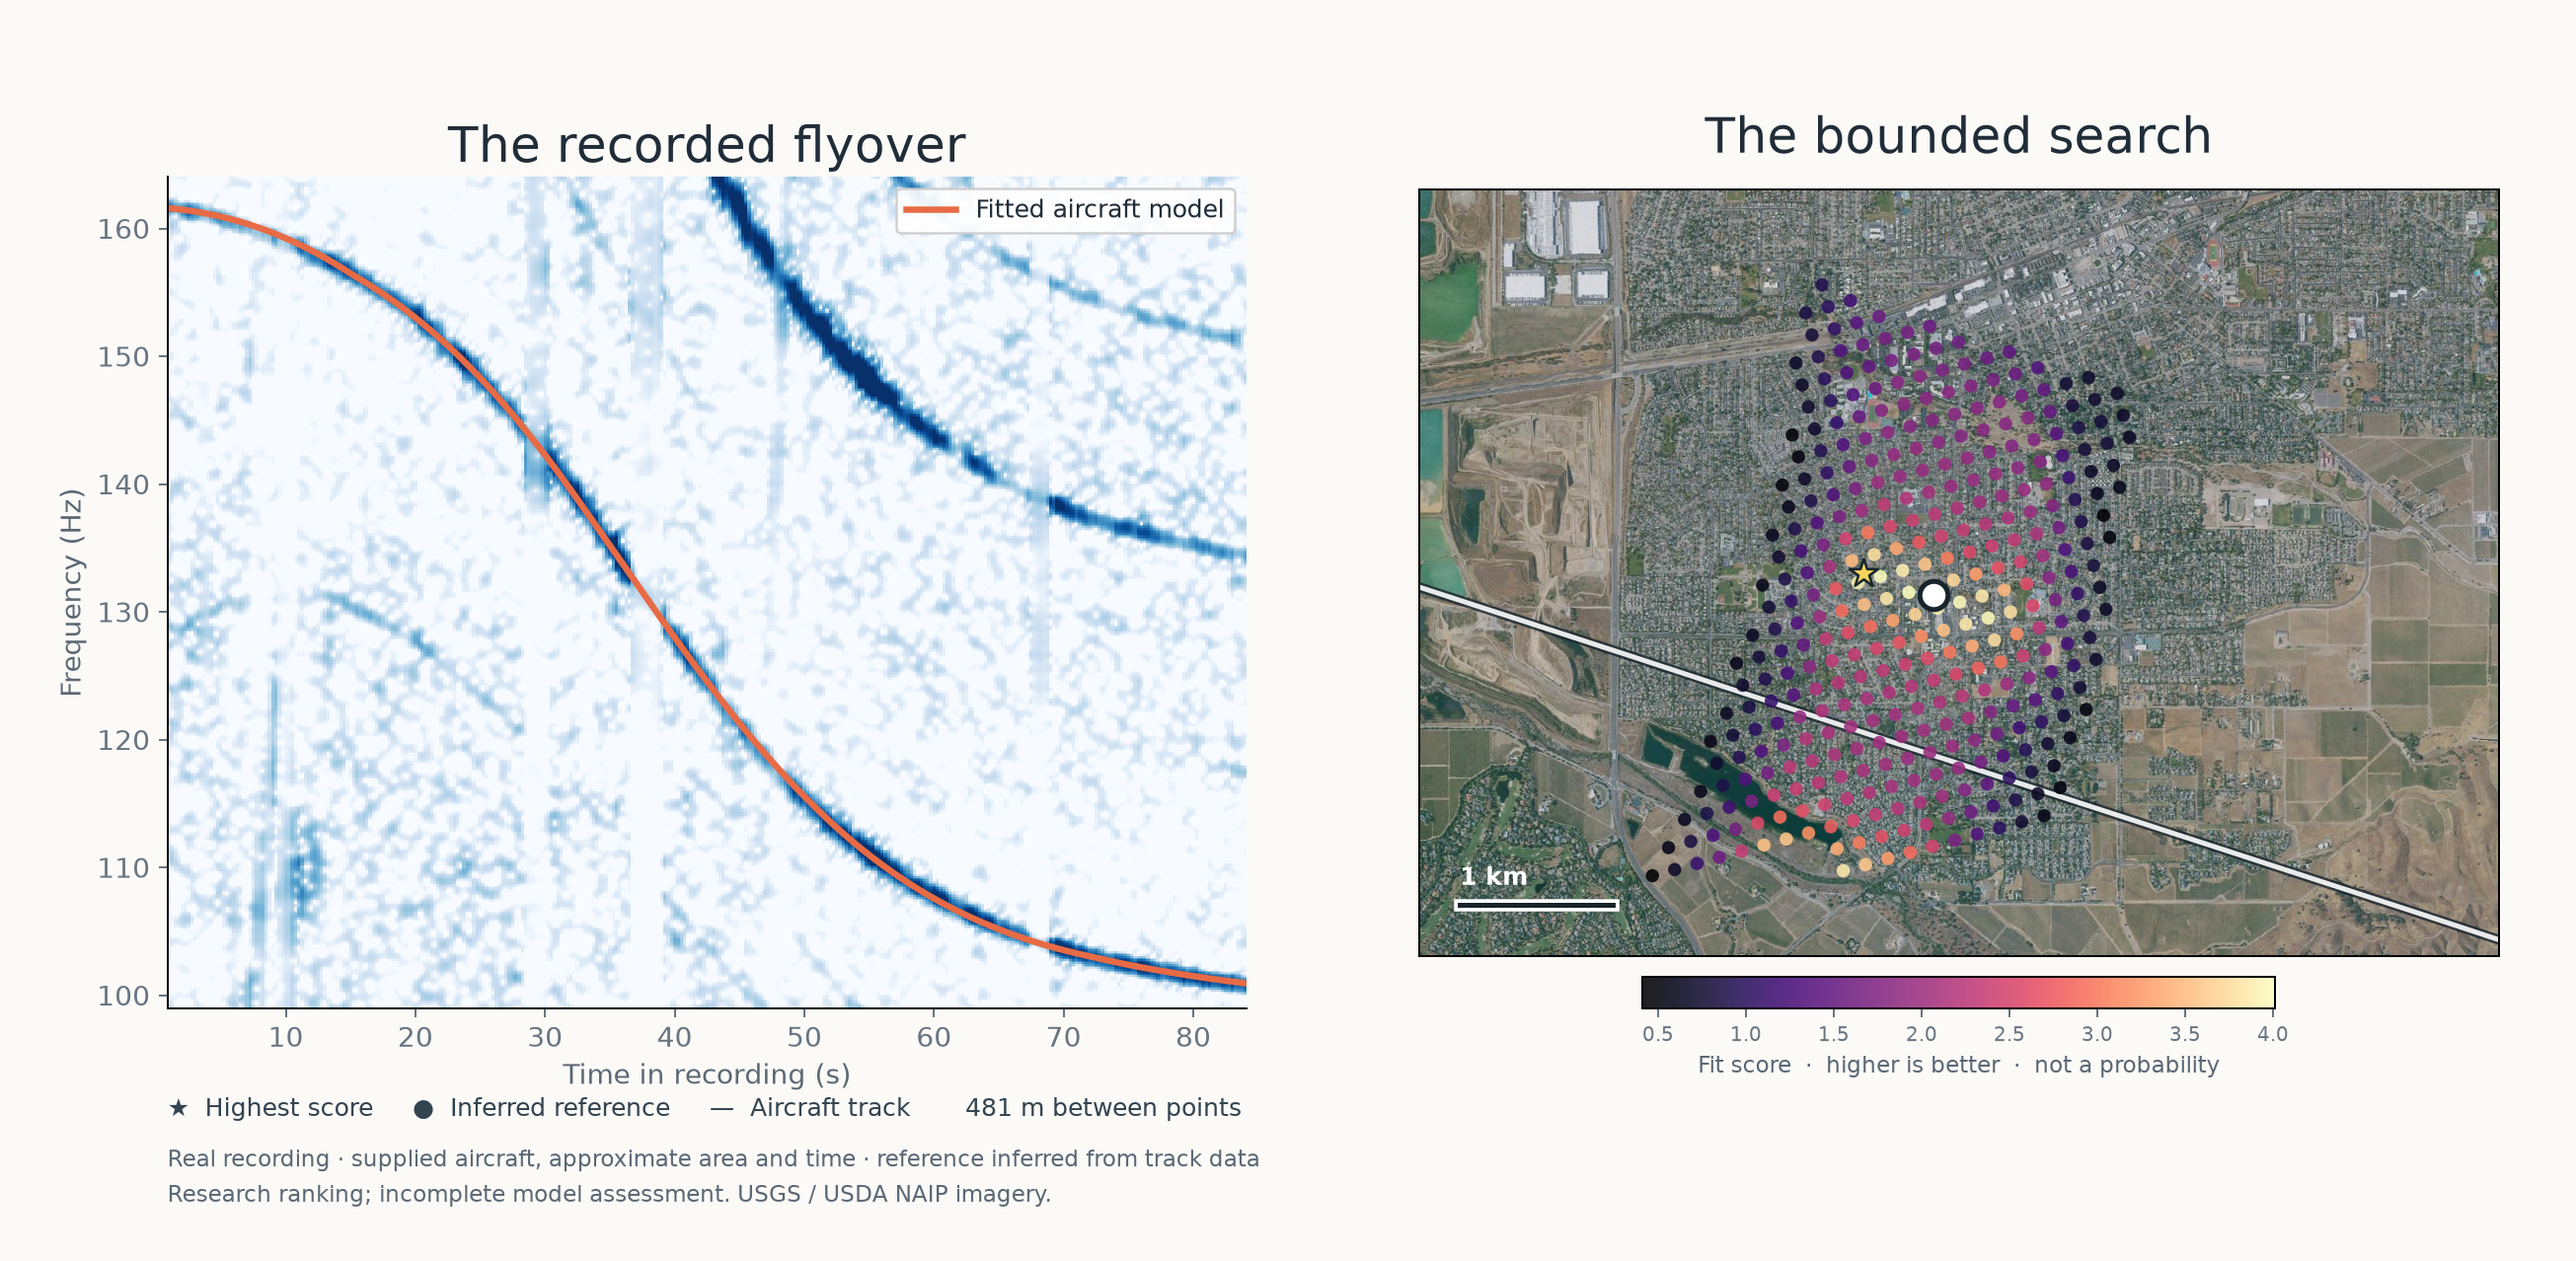
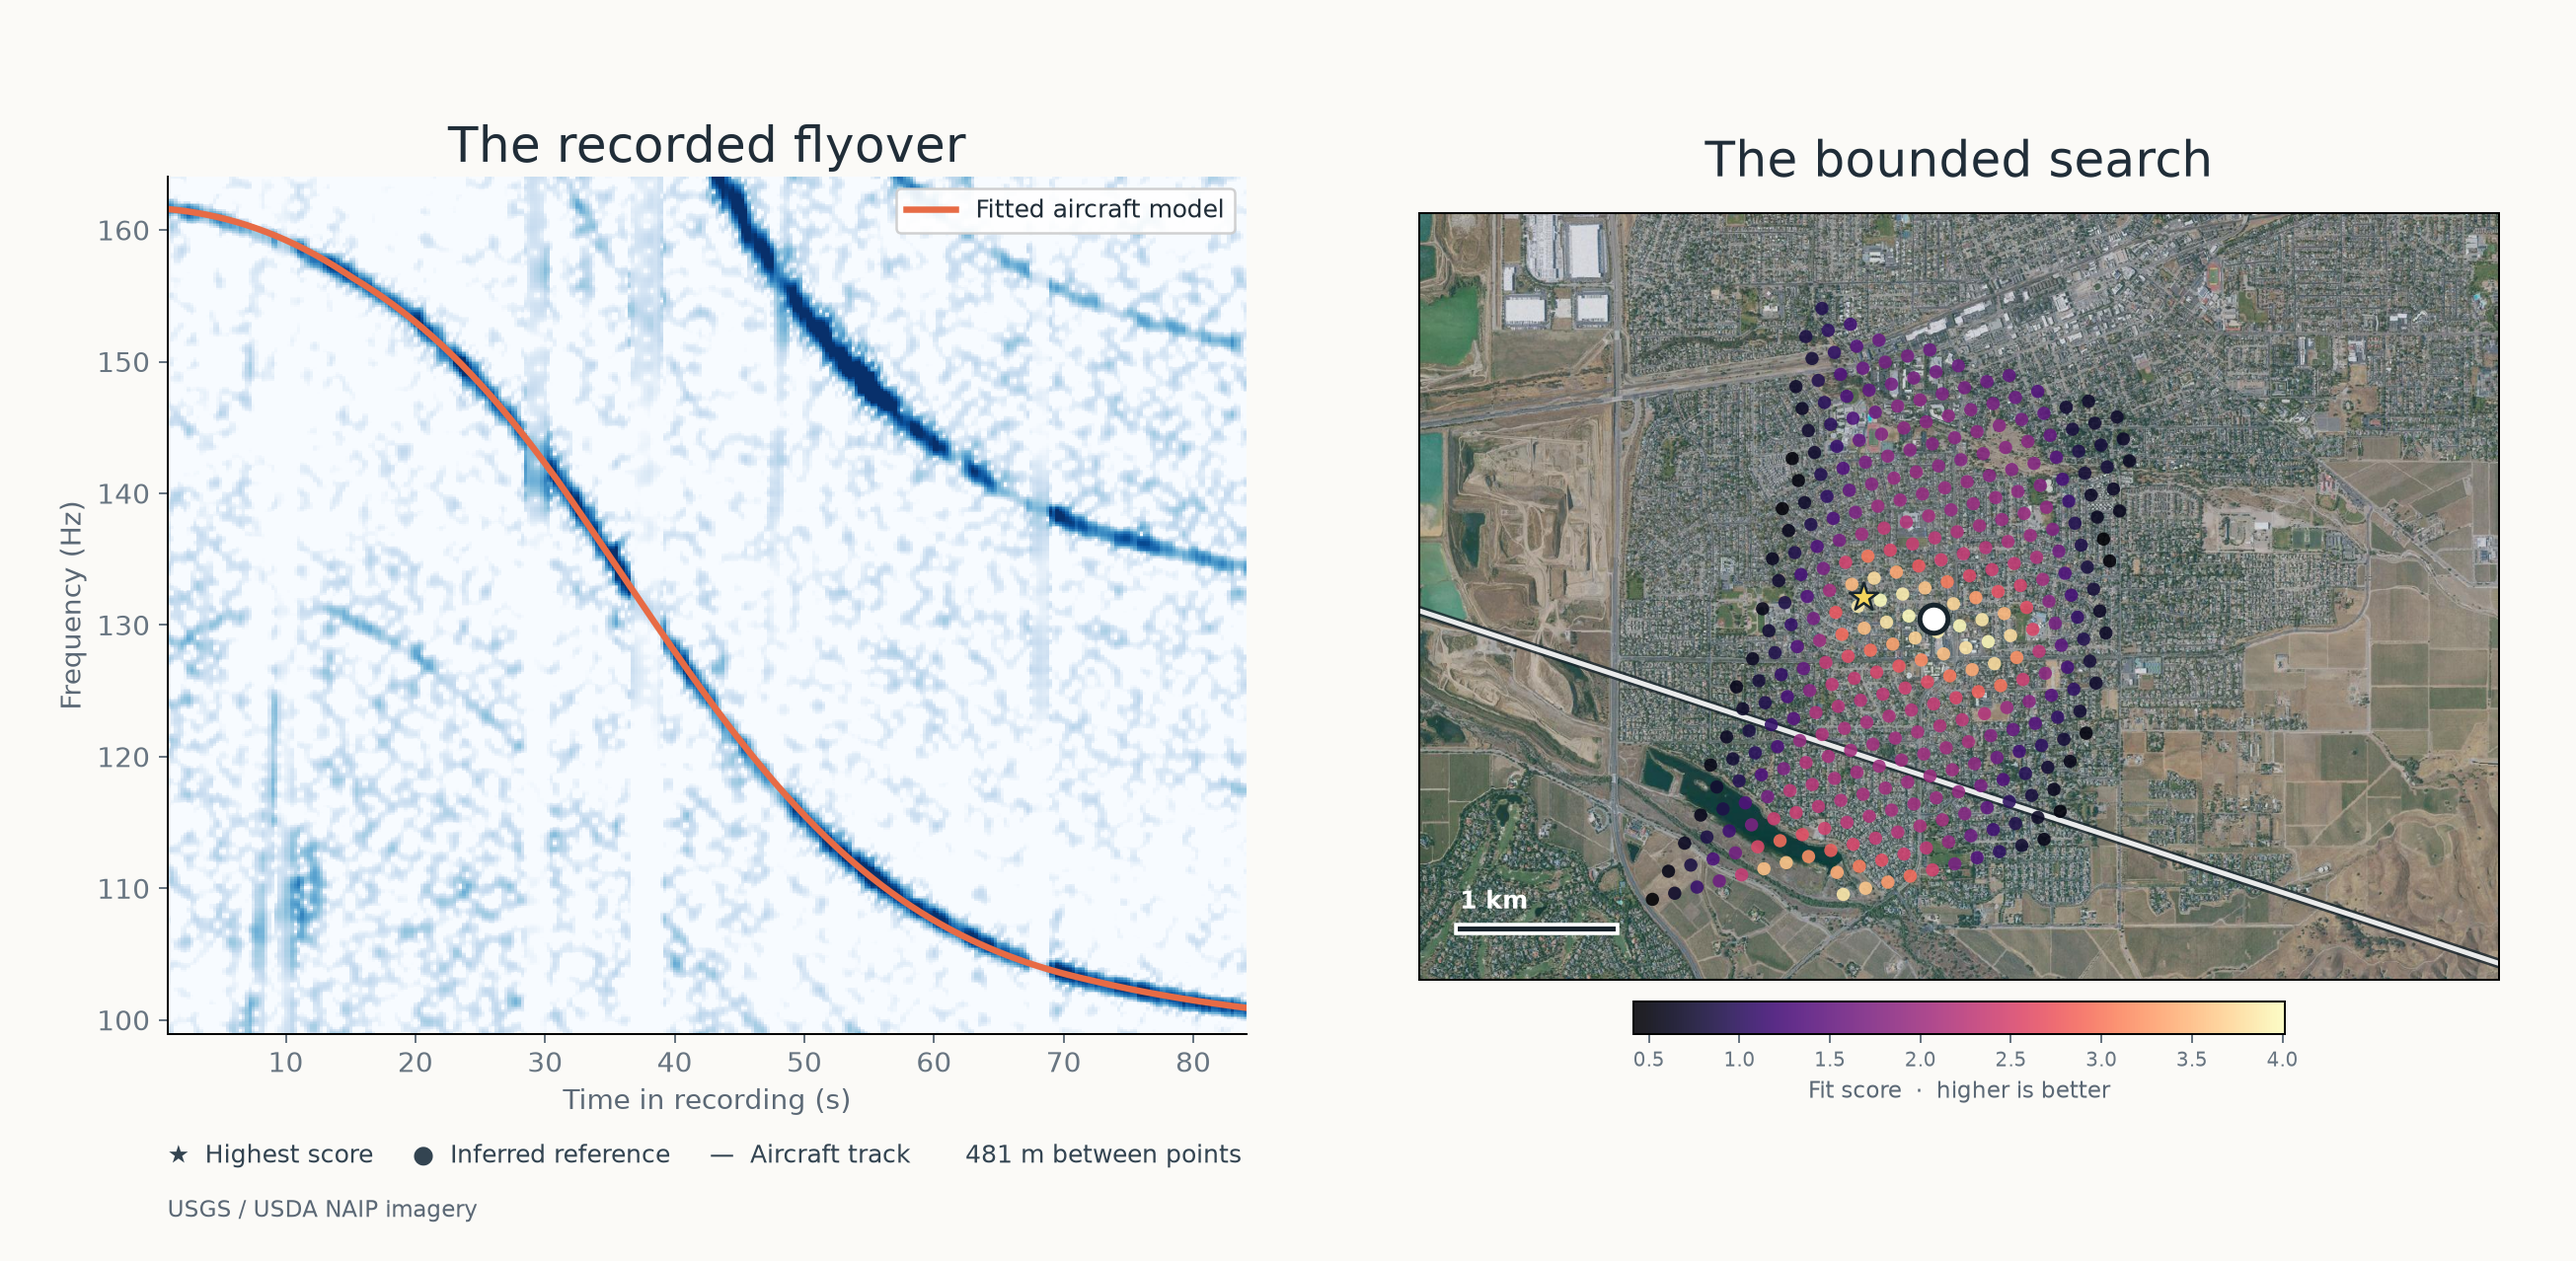
Simplify the Livermore graphic

diff --git a/scripts/render_livermore_demo.py b/scripts/render_livermore_demo.py
@@ -46,7 +46,7 @@ def main():
     plt.rcParams.update({'font.family':'DejaVu Sans', 'font.size':11, 'text.color':'#202d38',
                          'axes.labelcolor':'#5b6875','xtick.color':'#687581','ytick.color':'#687581'})
     fig = plt.figure(figsize=(14.5, 7.1), facecolor='#fbfaf7')
-    gs = fig.add_gridspec(1, 2, left=.065, right=.97, bottom=.20, top=.86, wspace=.16)
+    gs = fig.add_gridspec(1, 2, left=.065, right=.97, bottom=.18, top=.86, wspace=.16)
     ax = fig.add_subplot(gs[0,0])
     ax.pcolormesh(time, freq, spec['contrast'], shading='auto', cmap='Blues',
                   vmin=0, vmax=5, rasterized=True)
@@ -76,13 +76,11 @@ def main():
     ax.plot([west+.003,scale_lon],[south+.003,south+.003], color='#17242c',lw=2,zorder=9)
     ax.text(west+.003,south+.0042,'1 km',color='white',fontsize=10,weight='bold',zorder=9)
     cb=fig.colorbar(dots, ax=ax, orientation='horizontal', fraction=.038, pad=.025)
-    cb.set_label('Fit score  ·  higher is better  ·  not a probability',fontsize=9)
+    cb.set_label('Fit score  ·  higher is better',fontsize=9)
     cb.ax.tick_params(labelsize=8)
-    fig.text(.065,.115, f'★  Highest score     ●  Inferred reference     —  Aircraft track       {distance:.0f} m between points',
+    fig.text(.065,.078, f'★  Highest score     ●  Inferred reference     —  Aircraft track       {distance:.0f} m between points',
              fontsize=10, color='#334451')
-    fig.text(.065,.075, 'Real recording · supplied aircraft, approximate area and time · reference inferred from track data',
-             fontsize=9, color='#5b6875')
-    fig.text(.065,.047, 'Research ranking; incomplete model assessment. USGS / USDA NAIP imagery.', fontsize=9, color='#5b6875')
+    fig.text(.065,.035, 'USGS / USDA NAIP imagery', fontsize=9, color='#5b6875')
     args.output.parent.mkdir(parents=True, exist_ok=True)
     fig.savefig(args.output, dpi=180, facecolor=fig.get_facecolor())
     plt.close(fig)
